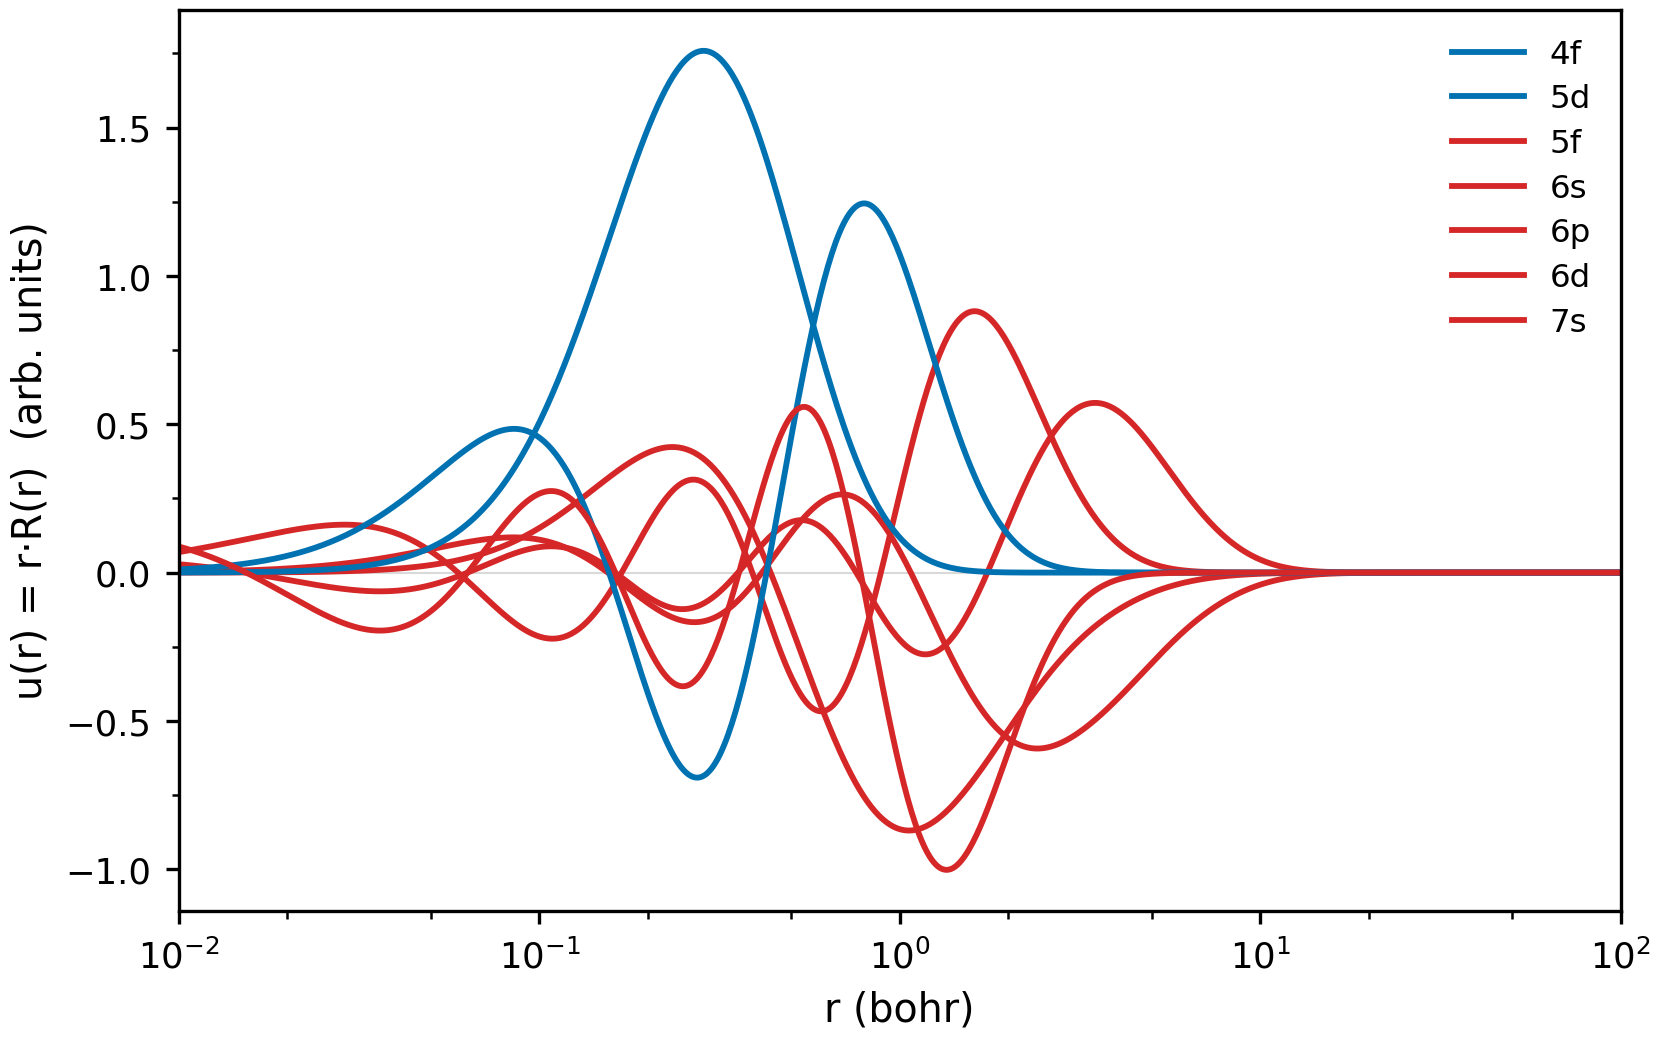
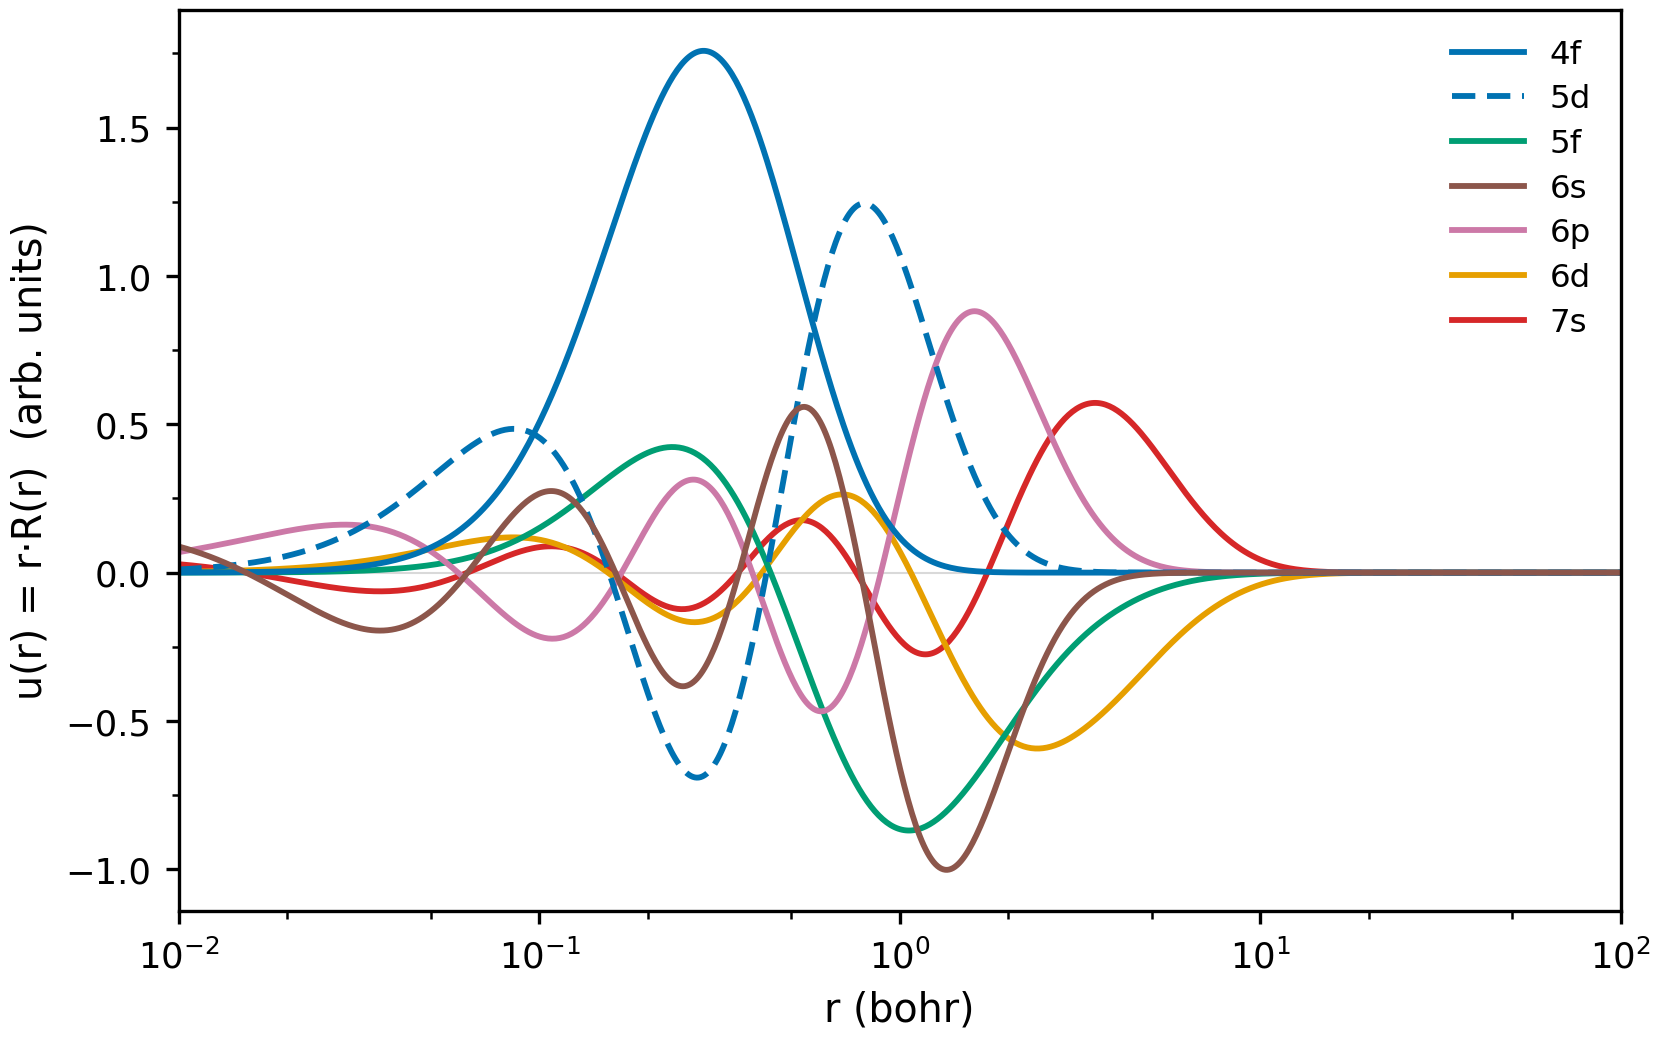
fig_radial_ae: distinguish every orbital by colour and line style
The core pair keeps blue but is told apart by line style (4f solid, 5d dashed); each
valence orbital gets its own non-blue colour, so all seven curves are separable and none
can be mistaken for a core orbital.

Tests: 35.

diff --git a/src/aiida_ld1_scripts/report.py b/src/aiida_ld1_scripts/report.py
@@ -209,6 +209,8 @@ def figure_radial(plt, directory: str | Path, out_base: Path, *, rcuts=None,
 #: semantic colours of Torres Fig. 1: the claim is "core vs valence", not "which orbital"
 CORE_COLOUR = '#0072B2'
 VALENCE_COLOUR = '#D62728'
+#: one colour per valence orbital, none of them close to the blue reserved for the core
+VALENCE_PALETTE = ('#D62728', '#E69F00', '#009E73', '#CC79A7', '#8C564B')
 #: this recipe's valence orbitals (the outer 14 electrons), from its state cards
 DEFAULT_VALENCE = ('6S', '7S', '6P', '6D', '5F')
 
@@ -218,9 +220,10 @@ def figure_radial_ae(plt, directory: str | Path, out_base: Path, *, valence=None
                      formats: Sequence[str] = ('png',)) -> Optional[Path]:
     """All-electron outer-shell radial wavefunctions (Torres & Kaloni Fig. 1).
 
-    Core orbitals (4f, 5d) are **blue**, valence orbitals (6s 6p 6d 5f 7s) **red** -- the
-    figure argues the core/valence partition, so the legend carries only those two labels,
-    not one entry per orbital.  All-electron only: the pseudopotential has not entered yet.
+    The core orbitals (4f, 5d) share **blue** and are told apart by their line style (4f
+    solid, 5d dashed); every valence orbital gets its own non-blue colour, so none of them
+    can be mistaken for a core orbital.  All-electron only: the pseudopotential has not
+    entered yet.
     """
     import numpy as np
     from matplotlib.lines import Line2D
@@ -234,10 +237,23 @@ def figure_radial_ae(plt, directory: str | Path, out_base: Path, *, valence=None
         return None
     valence = set(valence if valence is not None else DEFAULT_VALENCE)
 
+    # (colour, linestyle) per orbital: the core shares blue (solid then dashed), each
+    # valence orbital takes its own non-blue colour
+    styles: Dict[str, tuple] = {}
+    core_seen = 0
+    valence_seen = 0
+    for label in labels:
+        if label in valence:
+            styles[label] = (VALENCE_PALETTE[valence_seen % len(VALENCE_PALETTE)], '-')
+            valence_seen += 1
+        else:
+            styles[label] = (CORE_COLOUR, '-' if core_seen == 0 else (0, (4, 2)))
+            core_seen += 1
+
     figure, axis = plt.subplots(figsize=(6.2, 3.9))
     for index, label in enumerate(labels):
-        colour = VALENCE_COLOUR if label in valence else CORE_COLOUR
-        axis.plot(grid, values[:, index], '-', color=colour, lw=1.4)
+        colour, style = styles[label]
+        axis.plot(grid, values[:, index], linestyle=style, color=colour, lw=1.4)
 
     if str(xscale).lower() == 'log':
         axis.set_xscale('log')
@@ -271,7 +287,7 @@ def figure_radial_ae(plt, directory: str | Path, out_base: Path, *, valence=None
     ordered = sorted(labels, key=lambda lab: (1 if lab in valence else 0,
                                               principal(lab),
                                               analysis.state_l(lab)))
-    handles = [Line2D([], [], color=(VALENCE_COLOUR if lab in valence else CORE_COLOUR),
+    handles = [Line2D([], [], color=styles[lab][0], linestyle=styles[lab][1],
                       lw=1.4, label=display(lab)) for lab in ordered]
     axis.legend(handles=handles, loc='upper right', frameon=False)
     return _save(figure, Path(out_base), plt, formats)
@@ -637,9 +653,9 @@ def write_report(summary: Dict[str, Any], out_dir: Optional[str | Path] = None) 
 
     lines += ['## Figures', '',
               '![all-electron shells](fig_radial_ae.png)', '',
-              'All-electron radial wavefunctions of the outer shells, with the core '
-              'orbitals (4f, 5d) in blue and the valence orbitals (6s 6p 6d 5f 7s) in red '
-              '-- the partition the pseudopotential is built on (Torres Fig. 1).', '',
+              'All-electron radial wavefunctions of the outer shells. The core orbitals '
+              'share blue and are told apart by line style (4f solid, 5d dashed); every '
+              'valence orbital has its own colour (Torres Fig. 1).', '',
               '![radial](fig_radial.png)', '',
               'All-electron orbitals as solid lines, pseudo-orbitals as open symbols; the '
               'vertical dotted lines are the pseudization radii. The all-electron core '

diff --git a/tests/test_figures.py b/tests/test_figures.py
@@ -361,23 +361,26 @@ def test_the_log_ordinate_option_still_works(captured):
 # ------------------------------------------------------- all-electron shells
 
 def test_the_all_electron_outer_shell_figure(captured):
-    """Torres Fig. 1: 7 outer shells, core blue / valence red, two legend entries."""
+    """Torres Fig. 1: 7 outer shells; core shares blue (solid/dashed), valence each its colour."""
     render, _plt = captured
     figure, renderer, Text = render('figure_radial_ae')
     axis = figure.axes[0]
     assert len(figure.axes) == 1
     curves = [line for line in axis.get_lines() if len(set(line.get_xdata())) > 2]
     assert len(curves) == 7
-    red = [line for line in curves if line.get_color() == report_module.VALENCE_COLOUR]
+    # 2 core curves share blue and differ by line style; 5 valence curves are non-blue
     blue = [line for line in curves if line.get_color() == report_module.CORE_COLOUR]
-    assert len(red) == 5 and len(blue) == 2
+    assert len(blue) == 2
+    blue_styles = {line.get_linestyle() for line in blue}
+    assert len(blue_styles) == 2                      # 4f solid vs 5d dashed
+    non_blue = [line for line in curves if line.get_color() != report_module.CORE_COLOUR]
+    assert len(non_blue) == 5
+    assert len({line.get_color() for line in non_blue}) == 5   # all distinct
     legend = [text.get_text() for text in axis.get_legend().get_texts()]
-    # core first (4f, 5d), then valence by (n, l)
     assert legend == ['4f', '5d', '5f', '6s', '6p', '6d', '7s']
     handles = axis.get_legend().legend_handles
-    red = [h for h in handles if h.get_color() == report_module.VALENCE_COLOUR]
-    blue = [h for h in handles if h.get_color() == report_module.CORE_COLOUR]
-    assert len(red) == 5 and len(blue) == 2
+    assert [h.get_color() for h in handles].count(report_module.CORE_COLOUR) == 2
+    assert len({h.get_color() for h in handles}) == 6  # 1 blue + 5 distinct valence colours
     assert axis.get_xlabel() == 'r (bohr)'
     assert axis.get_title() == ''
     assert axis.get_xscale() == 'log'
@@ -392,5 +395,6 @@ def test_the_shell_figure_respects_an_explicit_valence_set(captured):
     figure, _r, _T = render('figure_radial_ae', valence={'6S', '5F'})
     axis = figure.axes[0]
     curves = [line for line in axis.get_lines() if len(set(line.get_xdata())) > 2]
-    red = [line for line in curves if line.get_color() == report_module.VALENCE_COLOUR]
-    assert len(red) == 2
+    blue = [line for line in curves if line.get_color() == report_module.CORE_COLOUR]
+    non_blue = [line for line in curves if line.get_color() != report_module.CORE_COLOUR]
+    assert len(blue) == 5 and len(non_blue) == 2   # valence={'6S','5F'} -> the other 5 are core

diff --git a/data/REPORT.md b/data/REPORT.md
@@ -107,7 +107,7 @@ The production pseudopotential uses the recipe value (`rlderiv = 5.0`); this sca
 
 ![all-electron shells](fig_radial_ae.png)
 
-All-electron radial wavefunctions of the outer shells, with the core orbitals (4f, 5d) in blue and the valence orbitals (6s 6p 6d 5f 7s) in red -- the partition the pseudopotential is built on (Torres Fig. 1).
+All-electron radial wavefunctions of the outer shells. The core orbitals share blue and are told apart by line style (4f solid, 5d dashed); every valence orbital has its own colour (Torres Fig. 1).
 
 ![radial](fig_radial.png)
 
